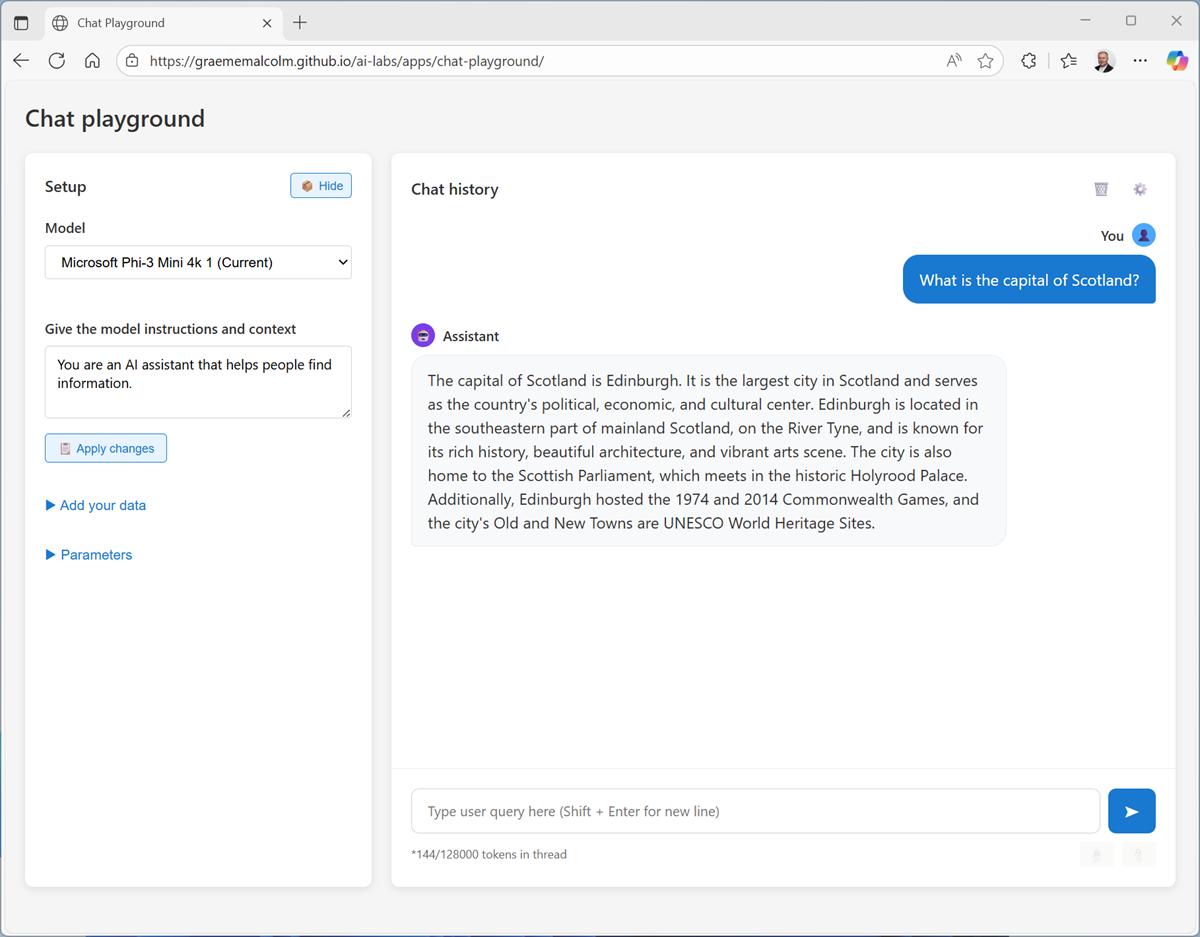
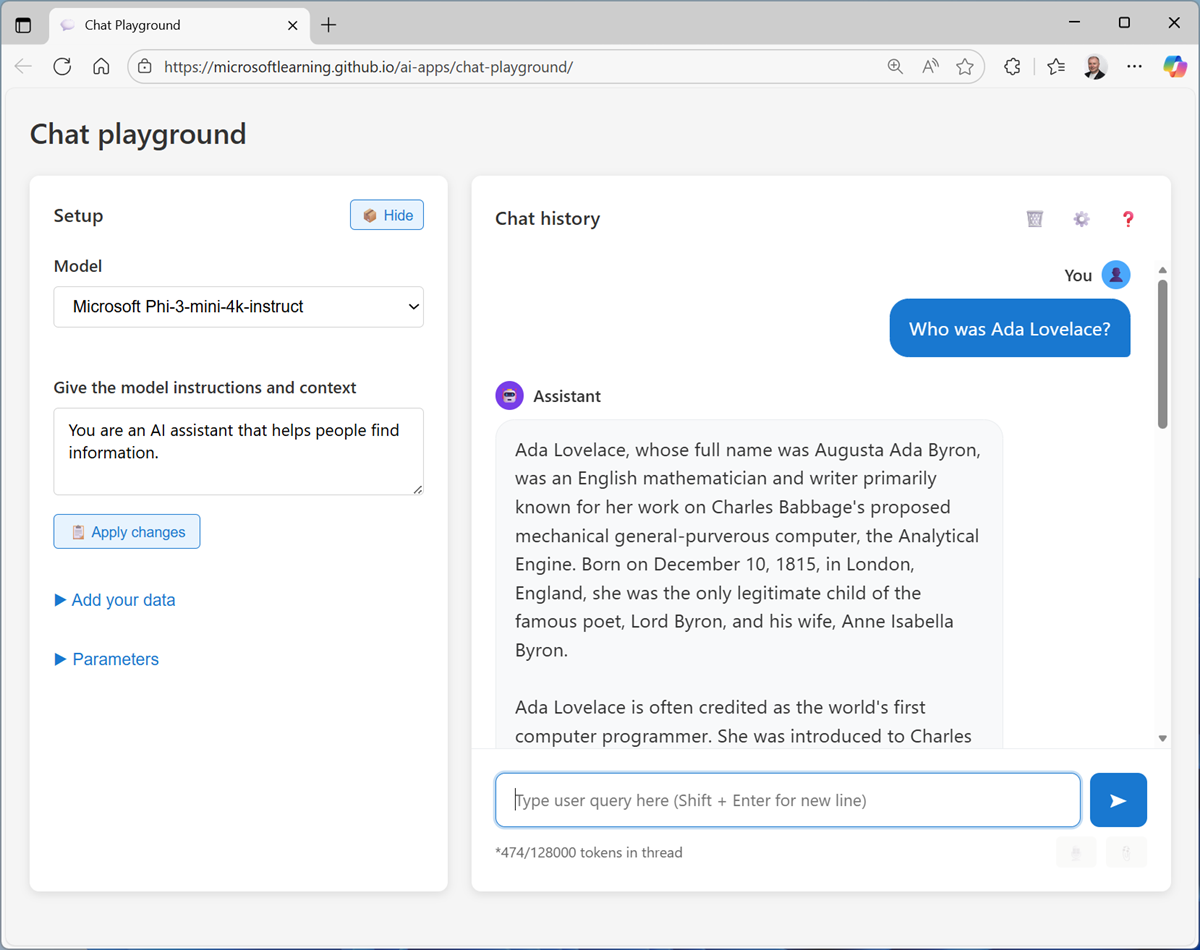
Improved prompts

diff --git a/Instructions/exercises/02-generative-ai.md b/Instructions/exercises/02-generative-ai.md
@@ -21,16 +21,16 @@ Let's start by using a chat interface to submit prompts to a generative AI model
 
     > **Tip**: The first time you open the chat playground, it may take a few minutes for the model to download. Subsequent downloads will be faster.
 
-1. When the model is ready, enter a prompt such as `What is the capital city of Scotland?`, and review the response.
+1. When the model is ready, enter a prompt such as `Who was Ada Lovelace?`, and review the response.
 
     ![Screenshot of the chat playground.](./media/gen-ai-01.png)
 
-1. Enter a follow-up prompt, such as `List 5 things I should do there.` and review the response; noting that the context of the conversation is "remembered" (the AI assistant "knows" you're asking about things to do in *Edinburgh* for example).
+1. Enter a follow-up prompt, such as `Tell me more about Charles Babbage.` and review the response.
 
-    > **Note**: If you are using the "None" fallback model, the conversation context will not be retained.
+    > **Note**: When using an LLM such as the Microsoft Phi model, chat  applications often include the conversation history in the prompt; so the context of the conversation is retained between messages (for example, a follow-up prompt like `Who was her father?` would be interpreted as relating to Ada Lovelace). In this application, if you are using the "None" fallback model, the conversation context is <u>not</u> retained.
 
 1. At the top of the chat pane, use the **Clear chat** (&#128465;) button to restart the conversation.
-1. Try your follow-up prompt again - this time, the conversational context has been reset; so the response may not be relevant to the previous messages (or indeed, make much sense).
+1. Enter a new prompt, such as `What was ENIAC?` and view the response.
 
 ## Experiment with system prompts
 
@@ -38,12 +38,9 @@ A system prompt is used to provide the model with an overall context for its res
 
 > **Note**: If you are using the "None" fallback model, changing the system prompt has no effect.
 
-1. In the **Setup** pane, in the **Give the model instructions and context** text area, change the system prompt to `You are an enthusiastic cartoon dog, eager to please and excited to chat. Start and end responses with "Woof!"`
+1. In the **Setup** pane, in the **Give the model instructions and context** text area, change the system prompt to `You are an AI assistant that helps people find information. Provide short, concise answers using simple language.`
 1. Apply the changes - the conversation is automatically restarted.
-1. Now try a prompt like `Tell me about London.` and review the output.
-1. Change the system prompt to `You are an efficient assistant who responds concisely, with short and to the point answers.`
-1. Apply the changes and try the same prompt as before (for example, `Tell me about London.`); and compare the response.
-1. Change the system prompt back to `You are an AI assistant that helps people find information.` and apply the changes.
+1. Now try a prompt like `What is AI?` and review the output.
 
 ## Experiment with model parameters
 
@@ -52,8 +49,11 @@ Model parameters control how the model works, and can be useful for restricting 
 > **Note**: If you are using the "None" fallback model, model parameters are disabled.
 
 1. In the **Setup** pane, expand the **Parameters** section.
-1. Review the parameter settings; then, without changing them, enter a prompt like `What can I do in New York City?` and review the response
-1. Experiment by changing the parameter values and repeating the same prompt. You should see some differences in behavior from the model. For example, increasing the **Temperature** adds more randomness into the model's word selection, increasing the "creativity" of the responses (to the point that they may end up being complete gibberish!)
+1. Review the parameter settings; then, without changing them, enter a prompt like `How does Machine Learning relate to AI?` and review the response
+1. Experiment by changing the parameter values and repeating the same prompt. You should see some differences in behavior from the model. For example, increasing the **Temperature** adds more randomness into the model's word selection, increasing the "creativity" of the responses (to the point that they may end up being complete gibberish!).
+
+    > **Tip**: You can use the **Stop generation** button in the chat pane to stop the response.
+
 1. When you've finished experimenting, reset the parameters to their default values and hide the **Parameters** area.
 
 ## Ground responses with data
@@ -82,6 +82,6 @@ For example, let's suppose an organization wants to use a generative AI agent to
 
 ## Summary
 
-in this exercise, you explored a generative Ai model in a chat playground. You've seen how a model's responses can be affected by changing the system prompt, configuring model parameters, and by adding data.
+in this exercise, you explored a generative AI model in a chat playground. You've seen how a model's responses can be affected by changing the system prompt, configuring model parameters, and by adding data.
 
-The interface and techniques used in this exercise are similar to those in Azure AI Foundry portal; a tool for building AI agents on the Microsoft Azure AI Foundry platform.
+The interface and techniques used in this exercise are similar to those in Microsoft Foundry portal; a platform for building AI apps and agents in the Microsoft Azure cloud.
